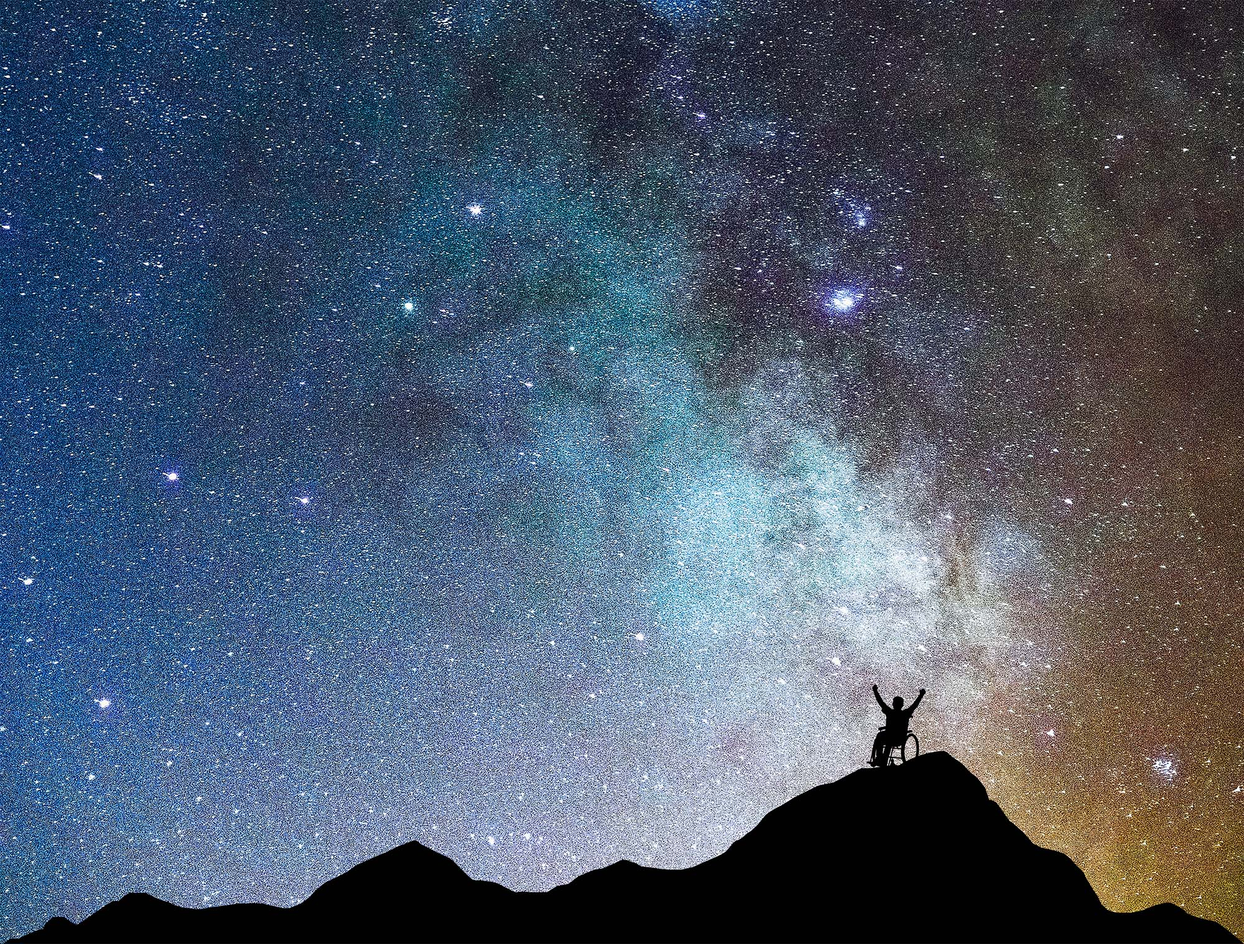
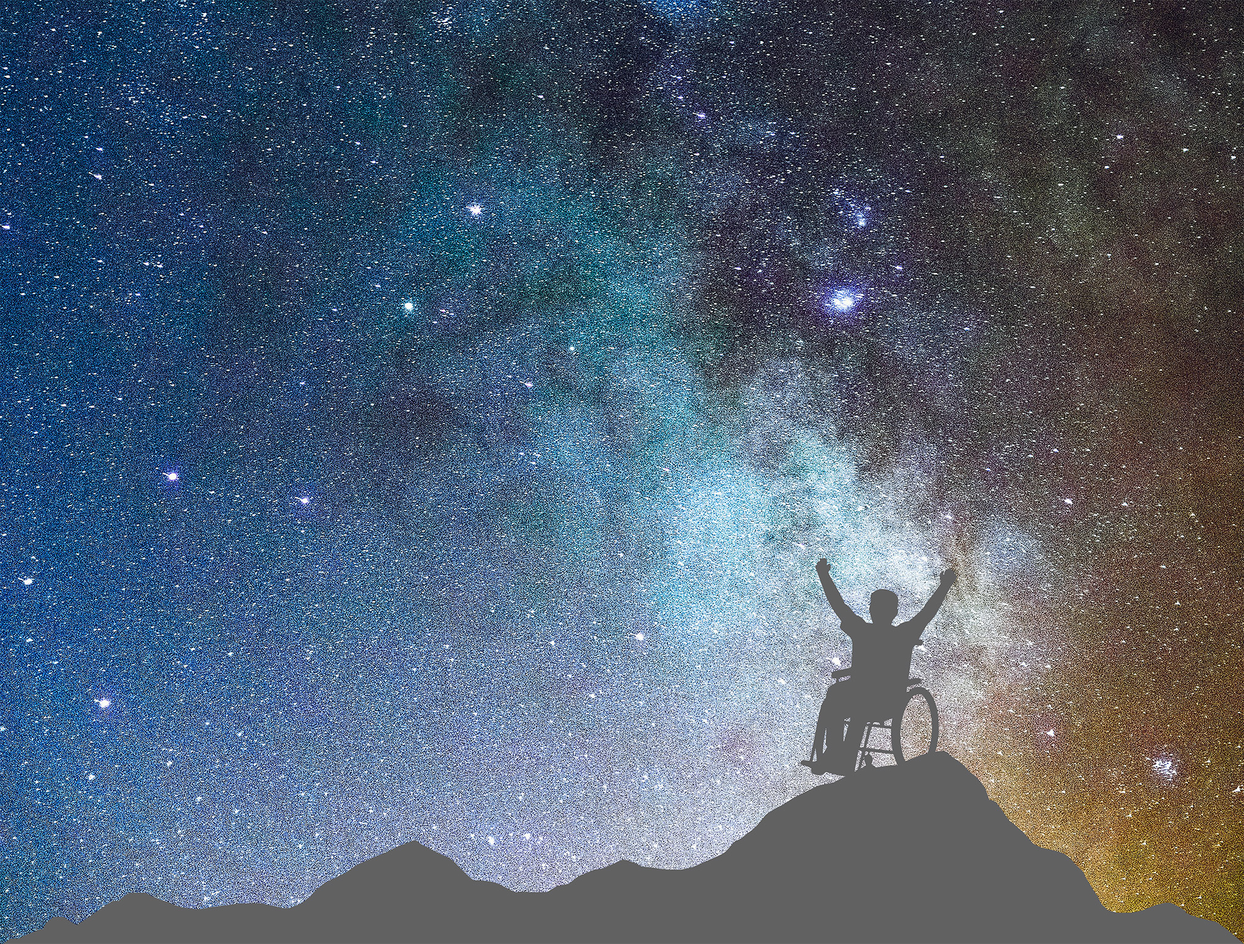
Update team bios, titles, and hero background image
- Richard Beckwith, PhD: updated bio to research areas format
- Marco Beltman, PhD: updated role and bio (acoustics/spatial audio/Adventures Without Limits)
- Susan Faulkner: updated bio (30 years UX research and leadership)
- Pete Denman: updated role to Design/UX Strategist, revised bio (20 years, Hawking comms system)
- Hero background: replaced with Wheelchair_cosmos_two.jpg
- Background position adjusted to center 75% to frame silhouette

diff --git a/index.html b/index.html
@@ -193,9 +193,9 @@
 
           <li class="team-card fade-up">
             <div class="team-avatar" aria-hidden="true"><div class="team-avatar-inner" style="color:#f0c96a">R</div></div>
-            <h4>Richard Beckwith</h4>
+            <h4>Richard Beckwith, PhD</h4>
             <p class="team-member-role">Research Fellow</p>
-            <p class="team-member-bio">Intel research psychologist specializing in AI, disability, and aging, coauthor of foundational work separating aging research from accessibility.</p>
+            <p class="team-member-bio">Long career doing research in support of design – Areas: disability, education, and aging; Technologies: UX, AI (esp.&nbsp;NLP), and sensing.</p>
           </li>
 
           <li class="team-card fade-up">
@@ -207,23 +207,23 @@
 
           <li class="team-card fade-up">
             <div class="team-avatar" aria-hidden="true"><div class="team-avatar-inner" style="color:#f0c96a">M</div></div>
-            <h4>Marco Beltman</h4>
-            <p class="team-member-role">Research Fellow, Sensory Technology</p>
-            <p class="team-member-bio">Intel principal engineer with a PhD in acoustics, 39 patents, and a volunteer raft guide opening rivers to people of all abilities.</p>
+            <h4>Marco Beltman, PhD</h4>
+            <p class="team-member-role">Research Fellow</p>
+            <p class="team-member-bio">Former Intel Principal Engineer, with 25 years of experience in acoustics, vibrations, and immersive spatial audio. Volunteer raft guide at Adventures Without Limits to open the outdoors to people of all abilities.</p>
           </li>
 
           <li class="team-card fade-up">
             <div class="team-avatar" aria-hidden="true"><div class="team-avatar-inner" style="color:#7ecfb3">P</div></div>
             <h4>Pete Denman</h4>
-            <p class="team-member-role">Interaction Design Lead</p>
-            <p class="team-member-bio">Intel Labs designer who rebuilt Stephen Hawking's communication system, a wheelchair user channeling lived experience into inclusive design.</p>
+            <p class="team-member-role">Design/UX Strategist</p>
+            <p class="team-member-bio">With 20 years of experience designing digital and physical products and prototypes, Pete's work spans the full spectrum of UX — most notably the redesign of Stephen Hawking's communication system.</p>
           </li>
 
           <li class="team-card fade-up">
             <div class="team-avatar" aria-hidden="true"><div class="team-avatar-inner" style="color:#f0c96a">S</div></div>
             <h4>Susan Faulkner</h4>
             <p class="team-member-role">Research Director</p>
-            <p class="team-member-bio">Intel qualitative research director whose ethnographic studies on disability and hearing aids reshaped product strategy at global scale.</p>
+            <p class="team-member-bio">Former Intel user experience researcher and leader with over 30 years of experience delivering high-impact results focused on accessibility.</p>
           </li>
 
         </ul>

diff --git a/assets/css/styles.css b/assets/css/styles.css
@@ -97,7 +97,7 @@
       z-index: -2;
       background-image: url('../images/hero-bg.jpeg');
       background-size: cover;
-      background-position: center 60%;
+      background-position: center 75%;
       background-repeat: no-repeat;
     }
     .gradient-canvas::after {
